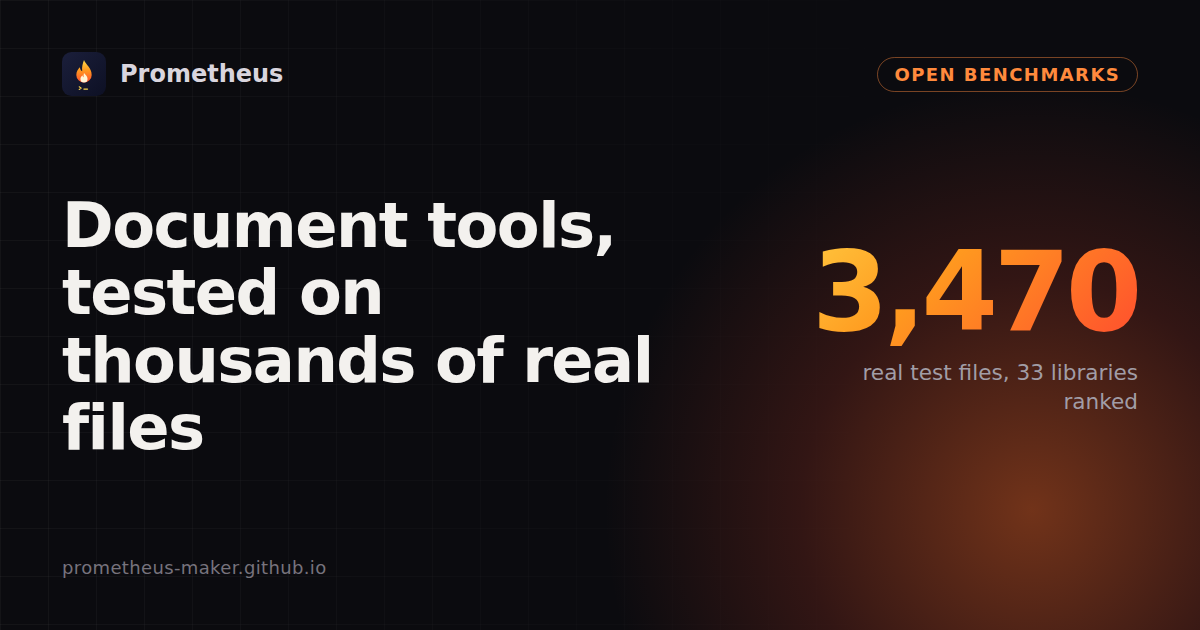
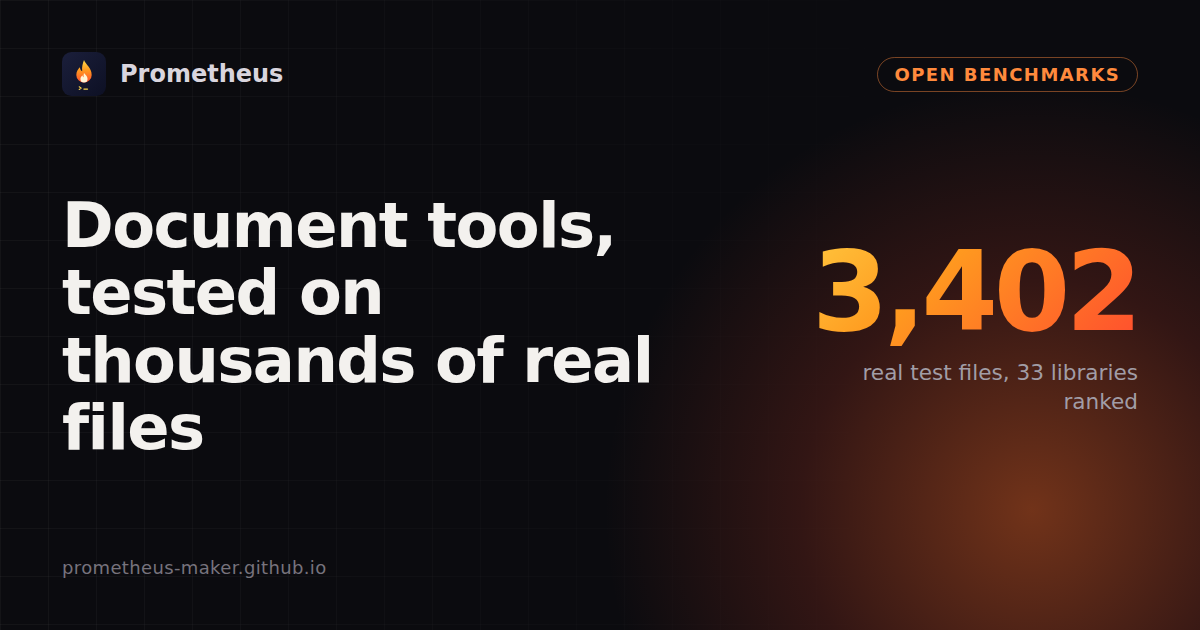
Homepage: file count matches the board (3,402)

Changed region(s): [[0.8325, 0.3921, 0.9558, 0.5429]]

diff --git a/index.html b/index.html
@@ -1,6 +1,6 @@
 <!doctype html><html lang="en"><head><meta charset="utf-8"><meta name="viewport" content="width=device-width,initial-scale=1">
 <title>Prometheus: document tools tested on thousands of real files</title>
-<meta name="description" content="Open benchmarks of Python PDF, Office, OCR and speech-to-text libraries on 3,470 real test files, re-run on every release. Plus field notes and small free tools.">
+<meta name="description" content="Open benchmarks of Python PDF, Office, OCR and speech-to-text libraries on 3,402 real test files, re-run on every release. Plus field notes and small free tools.">
 <link rel="canonical" href="https://prometheus-maker.github.io/">
 <meta property="og:title" content="Prometheus: document tools tested on thousands of real files">
 <meta property="og:description" content="Which Python library reads your PDFs, Office files, images and audio without breaking? Open benchmarks, notes and free tools.">
@@ -20,7 +20,7 @@
 <p class="mut" style="margin:12px 0 0;font-size:13px">190 real pages, AI2's olmOCR-bench checks, default settings.</p>
 <a class="more" href="reader-board/pdfmd.html">See the full table →</a></div></section>
 
-<section class="stats"><div><b>3,470</b><span>real test files</span></div><div><b>33</b><span>libraries ranked</span></div><div><b>16</b><span>notes with data</span></div><div><b>Daily</b><span>re-tested on new releases</span></div></section>
+<section class="stats"><div><b>3,402</b><span>real test files</span></div><div><b>33</b><span>libraries ranked</span></div><div><b>16</b><span>notes with data</span></div><div><b>Daily</b><span>re-tested on new releases</span></div></section>
 
 <div class="sec" id="notes"><h2>Notes</h2><a href="sitemap.xml">All pages</a></div>
 <div class="grid"><a class="note" href="notes/pypdf-7-0-0-real-pdfs.html"><img src="covers/pypdf-7-0-0-real-pdfs.png" alt="" loading="lazy" width="1200" height="630"><div><b>pypdf 7.0.0 vs 6.21.4 on 1,077 real PDFs</b><span>The day after the release: one file now raises DeprecationError, eight get missing spaces back, two symbol fonts map better.</span></div></a><a class="note" href="notes/python-speech-to-text-engines-compared.html"><img src="covers/python-speech-to-text-engines-compared.png" alt="" loading="lazy" width="1200" height="630"><div><b>6 offline speech-to-text engines on 130 real clips</b><span>faster-whisper, Whisper, whisper.cpp, Vosk, Moonshine and Parakeet: word error rate on audiobooks, meetings and earnings calls, speed on CPU, and two broken installs.</span></div></a><a class="note" href="notes/python-ocr-engines-compared.html"><img src="covers/python-ocr-engines-compared.png" alt="" loading="lazy" width="1200" height="630"><div><b>5 Python OCR engines on 190 real images</b><span>Tesseract, EasyOCR, RapidOCR, PaddleOCR and docTR on receipts, documents and screenshots with known text: words found, speed, and two broken default installs.</span></div></a><a class="note" href="notes/rag-document-converters-vs-tika-files.html"><img src="covers/rag-document-converters-vs-tika-files.png" alt="" loading="lazy" width="1200" height="630"><div><b>4 document-to-text tools for RAG vs 477 odd files</b><span>markitdown, Docling, Unstructured and Kreuzberg on Apache Tika's test documents: files read, speed (8.7 s vs 10 minutes), and the formats each one skips.</span></div></a><a class="note" href="notes/office-libraries-vs-poi-test-files.html"><img src="covers/office-libraries-vs-poi-test-files.png" alt="" loading="lazy" width="1200" height="630"><div><b>6 Python Office readers vs 655 odd Word, Excel and PowerPoint files</b><span>markitdown, mammoth, python-docx, docx2txt, python-pptx and openpyxl on Apache POI's test files: failures, speed, and the silent empty results the usual recipes give.</span></div></a><a class="note" href="notes/pdf-to-markdown-converters-compared.html"><img src="covers/pdf-to-markdown-converters-compared.png" alt="" loading="lazy" width="1200" height="630"><div><b>4 PDF-to-Markdown converters on 190 real pages</b><span>Docling, pymupdf4llm, Kreuzberg and markitdown scored with AI2's olmOCR-bench checks: headers, tables, tiny print, old scans, speed.</span></div></a><a class="note" href="notes/pdf-libraries-vs-broken-pdfs.html"><img src="covers/pdf-libraries-vs-broken-pdfs.png" alt="" loading="lazy" width="1200" height="630"><div><b>5 Python PDF libraries vs 1,068 broken and odd PDFs</b><span>PyMuPDF, pypdfium2, pypdf, pdfplumber and pdfminer.six on pdf.js's bug-report files: failures, timeouts and speed (6 s to 225 s). Repeatable with one script.</span></div></a><a class="note" href="notes/pdfminer-text-order-memory-address.html"><img src="covers/pdfminer-text-order-memory-address.png" alt="" loading="lazy" width="1200" height="630"><div><b>Same PDF, different text: a tie broken by memory address</b><span>pdfminer.six can return a PDF's text in a different order on the next call. 4 of 1,068 pdf.js test PDFs are affected. The cause, a tested fix, and a workaround.</span></div></a><a class="note" href="notes/document-converter-torture-test.html"><img src="covers/document-converter-torture-test.png" alt="" loading="lazy" width="1200" height="630"><div><b>What 1,700 test files found in my document converter</b><span>Apache POI and pdf.js test files found 6 real problems: a 32-second Word file, empty sideways pages, a tax form with "0 pages", wrong password errors, unfair billing, charged empty results.</span></div></a><a class="note" href="notes/blank-half-empty-screenshots.html"><img src="covers/blank-half-empty-screenshots.png" alt="" loading="lazy" width="1200" height="630"><div><b>Why full-page screenshots come out blank or half-empty</b><span>Four causes found on real sites: late drawing, an overflow fix that broke scrolling, scroll animations, pages without a body. Fixes included.</span></div></a><a class="note" href="notes/photo-ocr-vs-tesseract.html"><img src="covers/photo-ocr-vs-tesseract.png" alt="" loading="lazy" width="1200" height="630"><div><b>OCR on phone photos: Tesseract vs PP-OCRv6</b><span>9 real photos of menus, signs and receipts, checked against my own transcriptions. Tesseract found 39% of the words, PP-OCRv6 83%, at $0.0009 per photo.</span></div></a><a class="note" href="notes/css-selector-prefilter.html"><img src="covers/css-selector-prefilter.png" alt="" loading="lazy" width="1200" height="630"><div><b>Skip CSS selectors that can't match the page</b><span>Wappalyzer-style detection ran 1,450 selectors per page, each walking the whole tree. Ruling most out first: 431 s → 75 s on 59 pages, same results.</span></div></a><a class="note" href="notes/apify-cpu-threads.html"><img src="covers/apify-cpu-threads.png" alt="" loading="lazy" width="1200" height="630"><div><b>Your Apify Actor sees 16 CPUs but may use half of one</b><span>16 threads on a 0.5-core quota made Whisper 2.4× slower and an OCR run time out. One thread per whole core of quota fixed both.</span></div></a><a class="note" href="notes/main-fallback-benchmark.html"><img src="covers/main-fallback-benchmark.png" alt="" loading="lazy" width="1200" height="630"><div><b>My extraction trick won on my pages and lost on a benchmark</b><span>A &lt;main&gt; fallback raised recall from 76% to 89% on 45 docs pages, but lowered F1 on trafilatura's 990-page benchmark. One rule fixed most of it.</span></div></a><a class="note" href="notes/html-to-markdown-boilerplate.html"><img src="covers/html-to-markdown-boilerplate.png" alt="" loading="lazy" width="1200" height="630"><div><b>HTML to Markdown for RAG: how much boilerplate do common tools keep?</b><span>45 pages, 8 sites: whole-page converters keep 29% repeated menus and footers; main-content extraction keeps 3%.</span></div></a><a class="note" href="notes/trafilatura-thread-crash.html"><img src="covers/trafilatura-thread-crash.png" alt="" loading="lazy" width="1200" height="630"><div><b>Why trafilatura crashes in threads, and how to fix it</b><span>A shared lxml parser made <code>extract()</code> crash about 1 run in 9 under threads. With one parser per thread: 0 crashes in 120 runs.</span></div></a></div>
